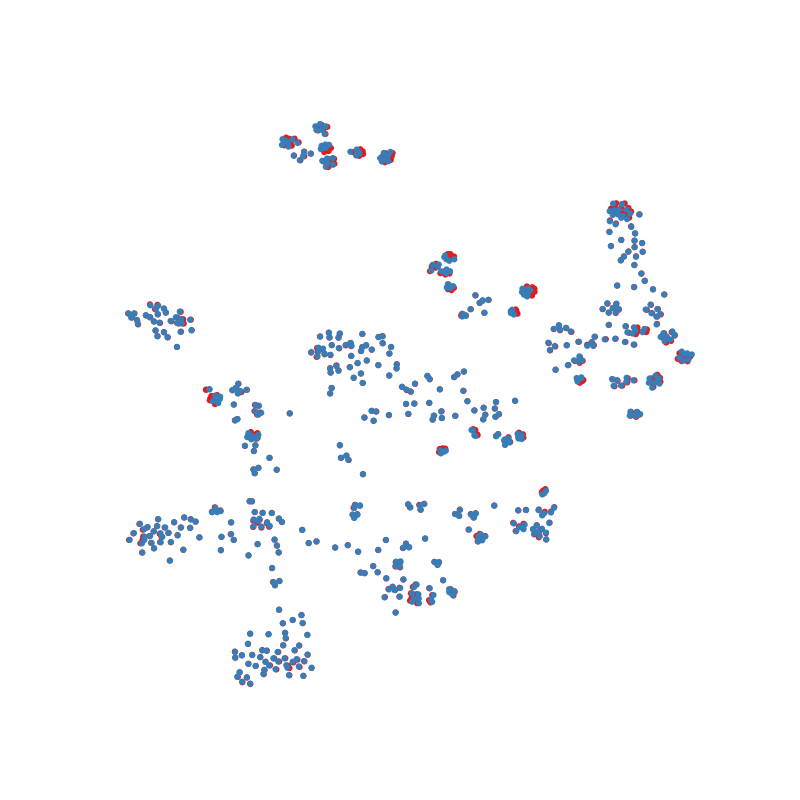
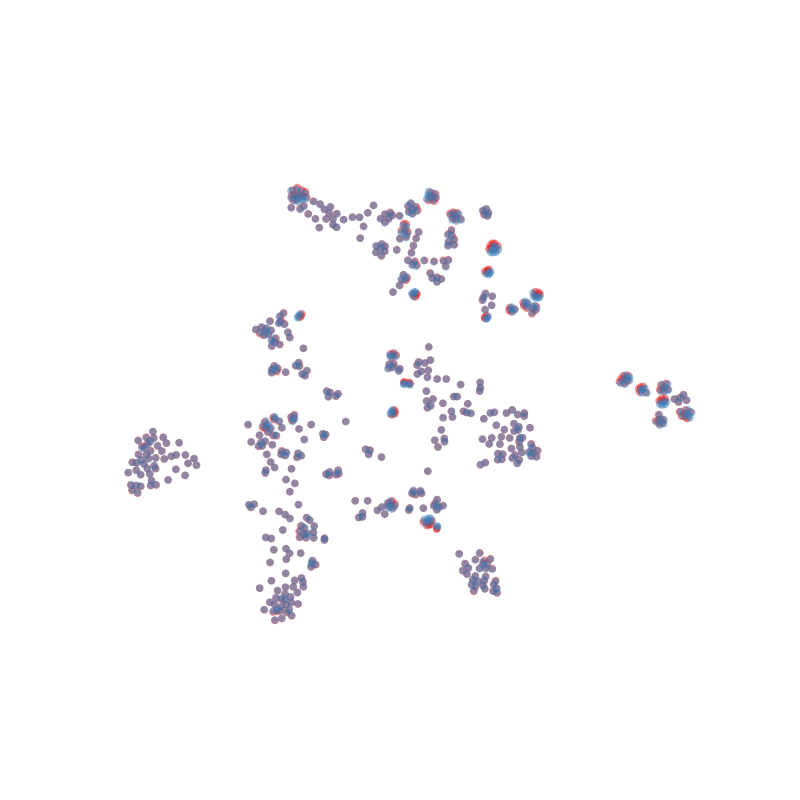
tsne

diff --git a/utils/visualization.py b/utils/visualization.py
@@ -36,12 +36,12 @@ def visualize_TSNE(source_feat, target_feat, path):
     # We create a scatter plot.
     f = plt.figure(figsize=(8, 8))
     ax = plt.subplot(aspect='equal')
-    sc = ax.scatter(digits_proj[:, 0], digits_proj[:, 1], lw=0, s=20,
+    sc = ax.scatter(digits_proj[:, 0], digits_proj[:, 1], lw=0, s=30,
                     c=palette[y.astype(np.int)], alpha=0.5)
-    plt.xlim(-25, 25)
-    plt.ylim(-25, 25)
+    # plt.xlim(-25, 25)
+    # plt.ylim(-25, 25)
     ax.axis('off')
-    ax.axis('tight')
+    # ax.axis('tight')
     plt.savefig(path)
 
     txts = []
